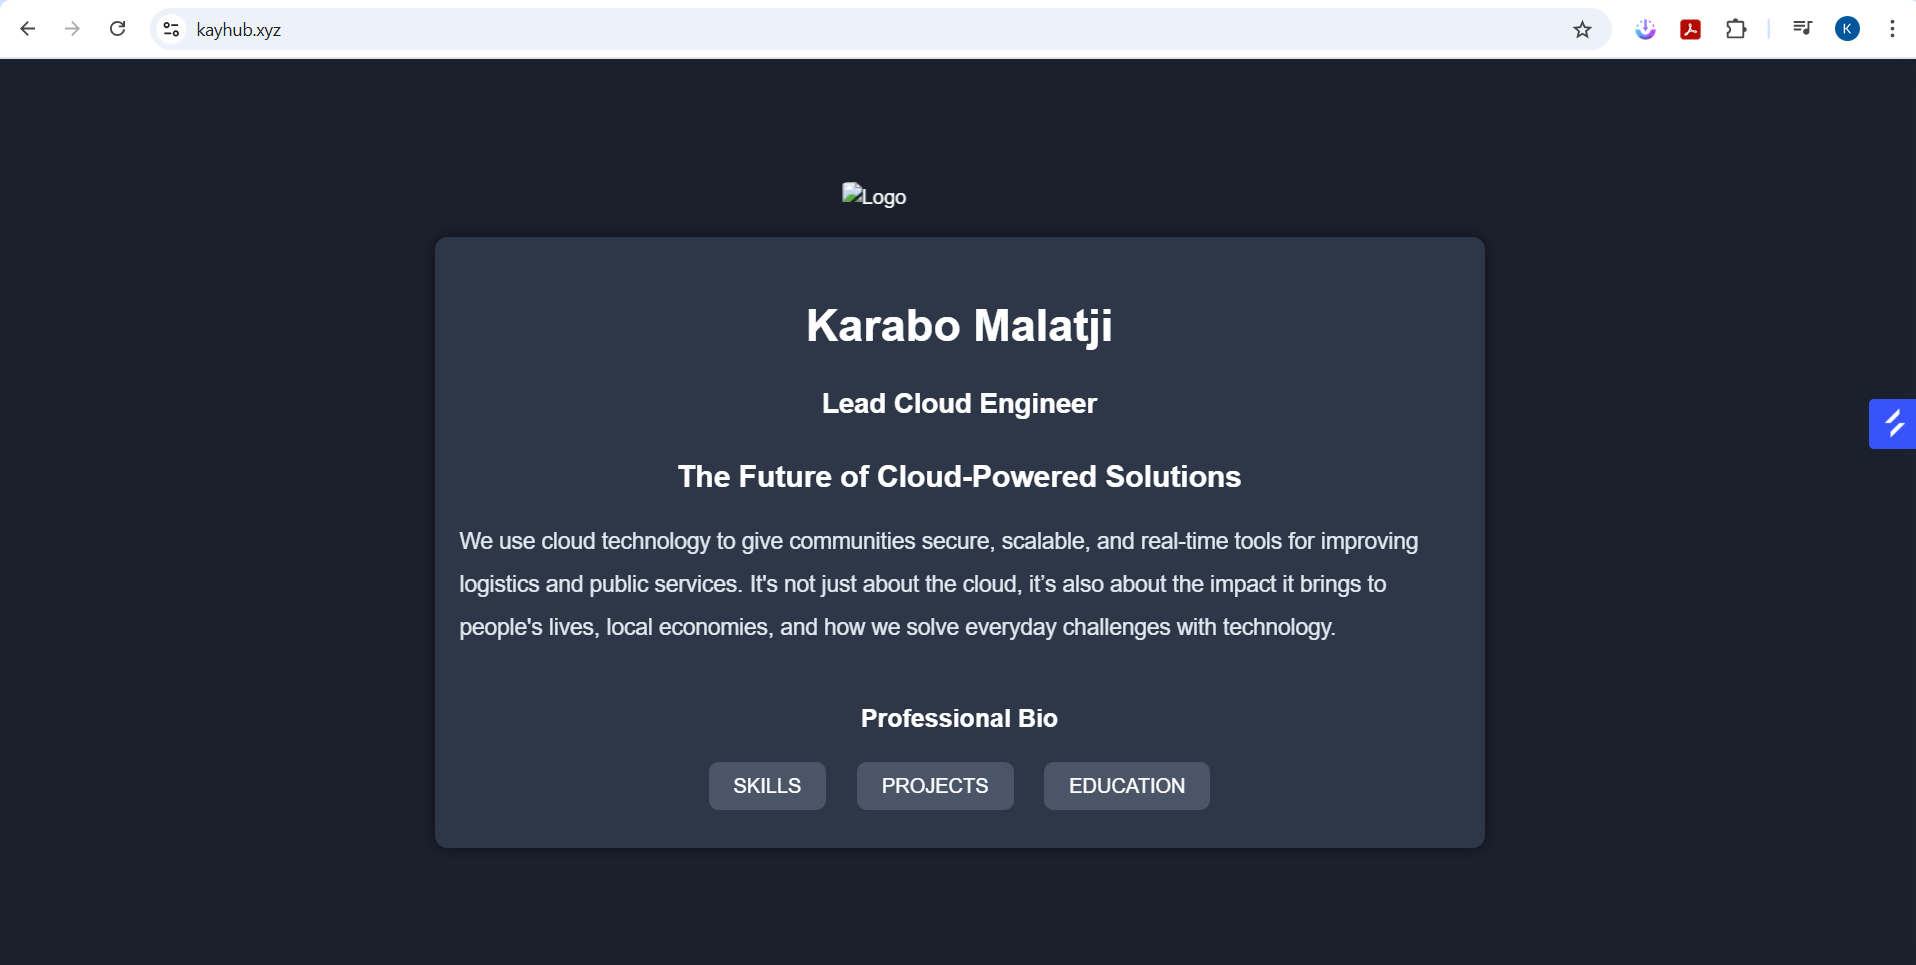
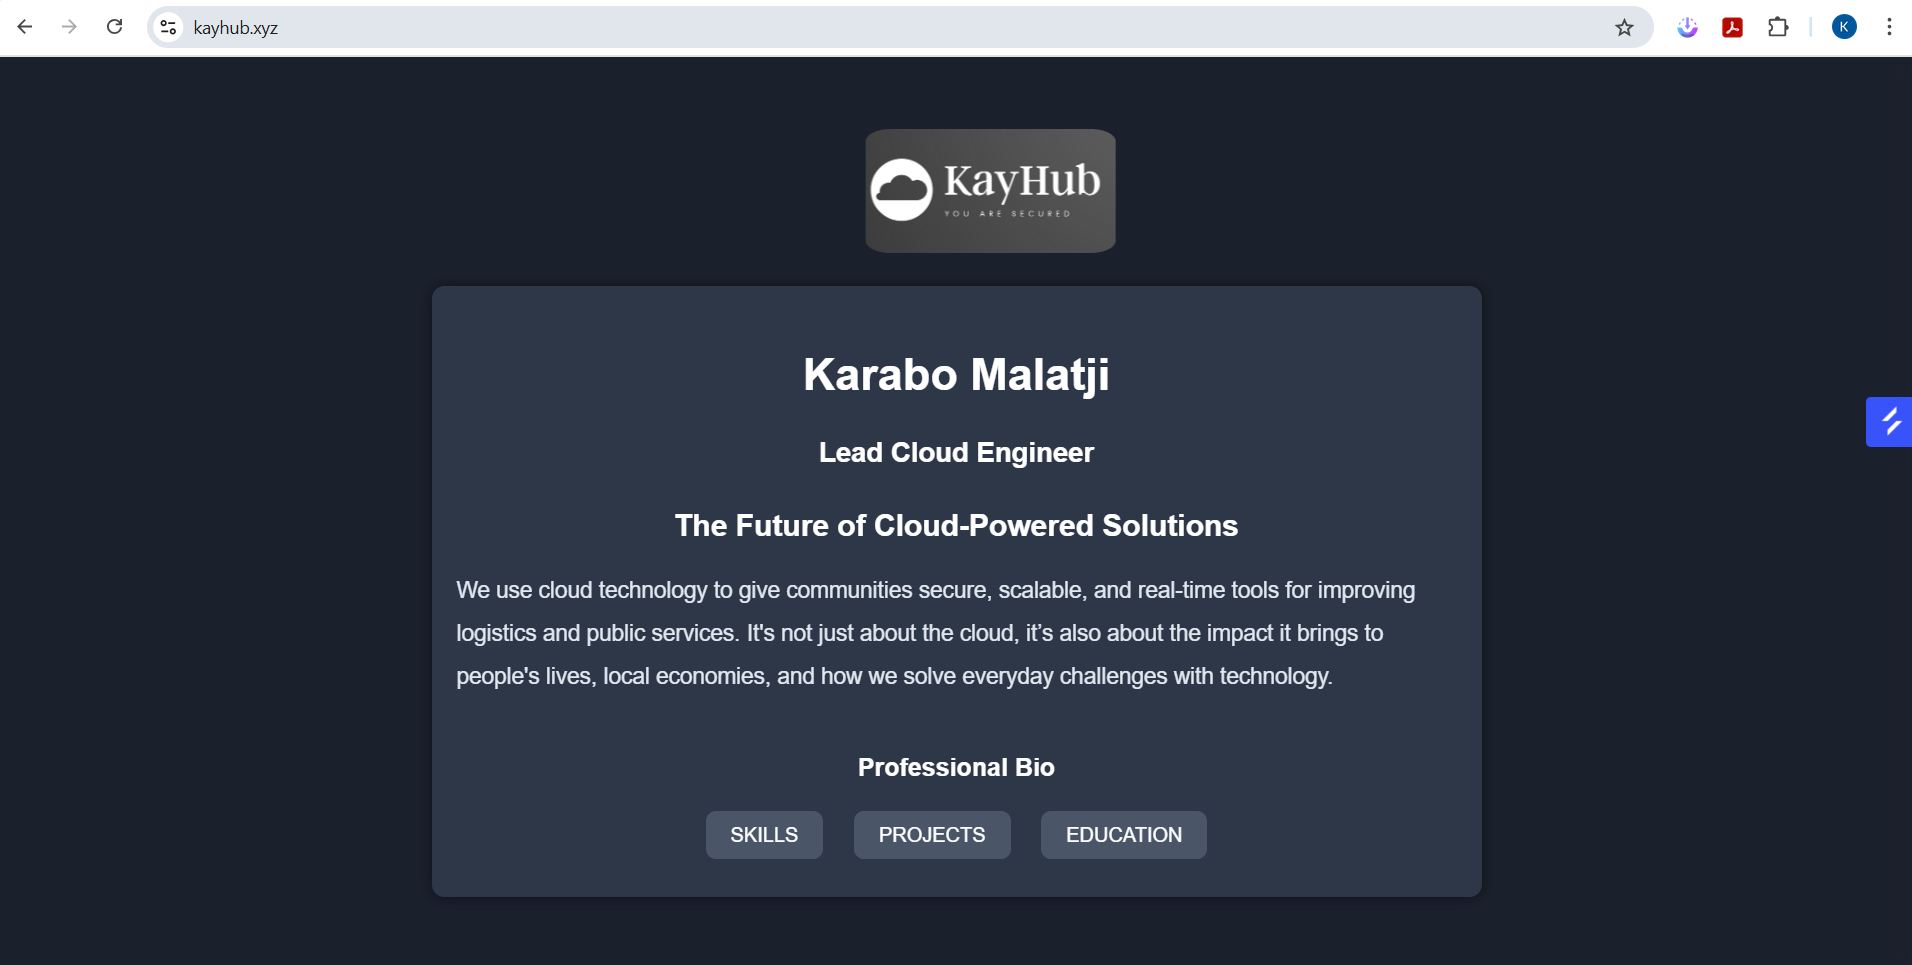
Updated Screenshot and readme file

Changed region(s): [[0.216, 0.1244, 0.8023, 0.9326], [0.0, 0.0, 1.0, 0.0622], [0.9874, 0.4041, 1.0, 0.4663]]

diff --git a/README.md b/README.md
@@ -1,43 +1,84 @@
+
 # AltCloud Landing Page Project
 
 This is a dynamic landing page project hosted on AWS EC2, built for the AltSchool of Engineering Tinyuka Second Semester (Cloud) submission.
 
 ## 🔧 Technologies Used
 
-- Ubuntu 22.04 (AWS EC2)
-- Nginx Web Server
-- Tailwind CSS
-- HTML5
+* Ubuntu 22.04 (AWS EC2)
+* Nginx Web Server
+* CSS
+* HTML5
+* JavaScript
+* Cloudflare
+* Namecheap
 
 ## 🌐 Live Preview
 
-**Public IP Address:** http://13.48.44.160
+**Public IP Address:** [http://13.48.44.160](http://13.48.44.160)
+**Domain Names:**
+
+* [https://www.kayhub.xyz](https://www.kayhub.xyz)
+* [https://kayhub.xyz](https://kayhub.xyz)
 
 ![AltCloud Landing Page Screenshot](Screenshot.png)
 
 ## 🛠 Steps Taken
 
 ### 1. Server Provisioning (AWS EC2)
-- Launched a t2.micro Ubuntu 22.04 instance on AWS EC2.
-- Created and downloaded a key pair `altcloud-key.pem`.
+
+* Launched a `t2.micro` Ubuntu 22.04 instance on AWS EC2.
+* Created and downloaded a key pair `altcloud-key.pem`.
+* Configured AWS security group to allow HTTP (port 80), HTTPS (port 443), and SSH (port 22) access.
 
 ### 2. Web Server Setup
-- Installed and started Nginx on the EC2 server.
-- Opened port 80 in the AWS security group to allow HTTP traffic.
+
+* Installed and started Nginx on the EC2 server.
+* Opened port 80 in the AWS security group to allow HTTP traffic.
 
 ### 3. Dynamic Landing Page
-- Replaced default Nginx page with a custom HTML page.
-- Used  CSS CDN for styling.
-- Content includes:
-  - Name: Karabo Malatji
-  - Role: Lead Cloud Engineer
-  - Project Title: The Future of Cloud-Powered Solutions
-  - Short Pitch and Professional Bio
 
-### 4. Deployment
-- The HTML page is served via Nginx at the public IP above.
+* Replaced the default Nginx welcome page with a custom HTML file.
+* Used CSS (Cascading Style Sheets.) for styling.
+* Added interactive elements using JavaScript.
+* Page includes:
+
+  * Name: Karabo Malatji
+  * Role: Lead Cloud Engineer
+  * Title: The Future of Cloud-Powered Solutions
+  * Pitch and Professional Bio
+
+### 4. Buying a Domain (Namecheap)
+
+* Purchased the domain `kayhub.xyz` via Namecheap.
+
+### 5. Linking to Cloudflare
+
+* Added domain to Cloudflare for DNS and security management.
+* Updated Namecheap nameservers to point to Cloudflare.
+* Configured DNS records to link domain to EC2 public IP.
+* **Enabled SSL/TLS encryption via Cloudflare** to secure the domain with HTTPS.
+
+### 6. Deployment
+
+* Deployed the HTML page to the EC2 instance.
+* Configured Nginx to serve the landing page.
+* **Tested SSL certificate functionality** to ensure secure HTTPS access to the site.
+* Verified that both IP address and domain load the project.
+
+### 7. README File
+
+* Created a step-by-step README to explain the setup process.
+* Documented technologies used, live preview, and all steps clearly.
+
+### 8. Git Pushing
+
+* Initialized a Git repository.
+* Added and committed project files.
+* Pushed code to a remote repository for version control and sharing.
 
 ## 👨💻 Author
 
-**Karabo Malatji**  
+**Karabo Malatji**
 Cloud Engineering Student, AltSchool of Engineering
+
